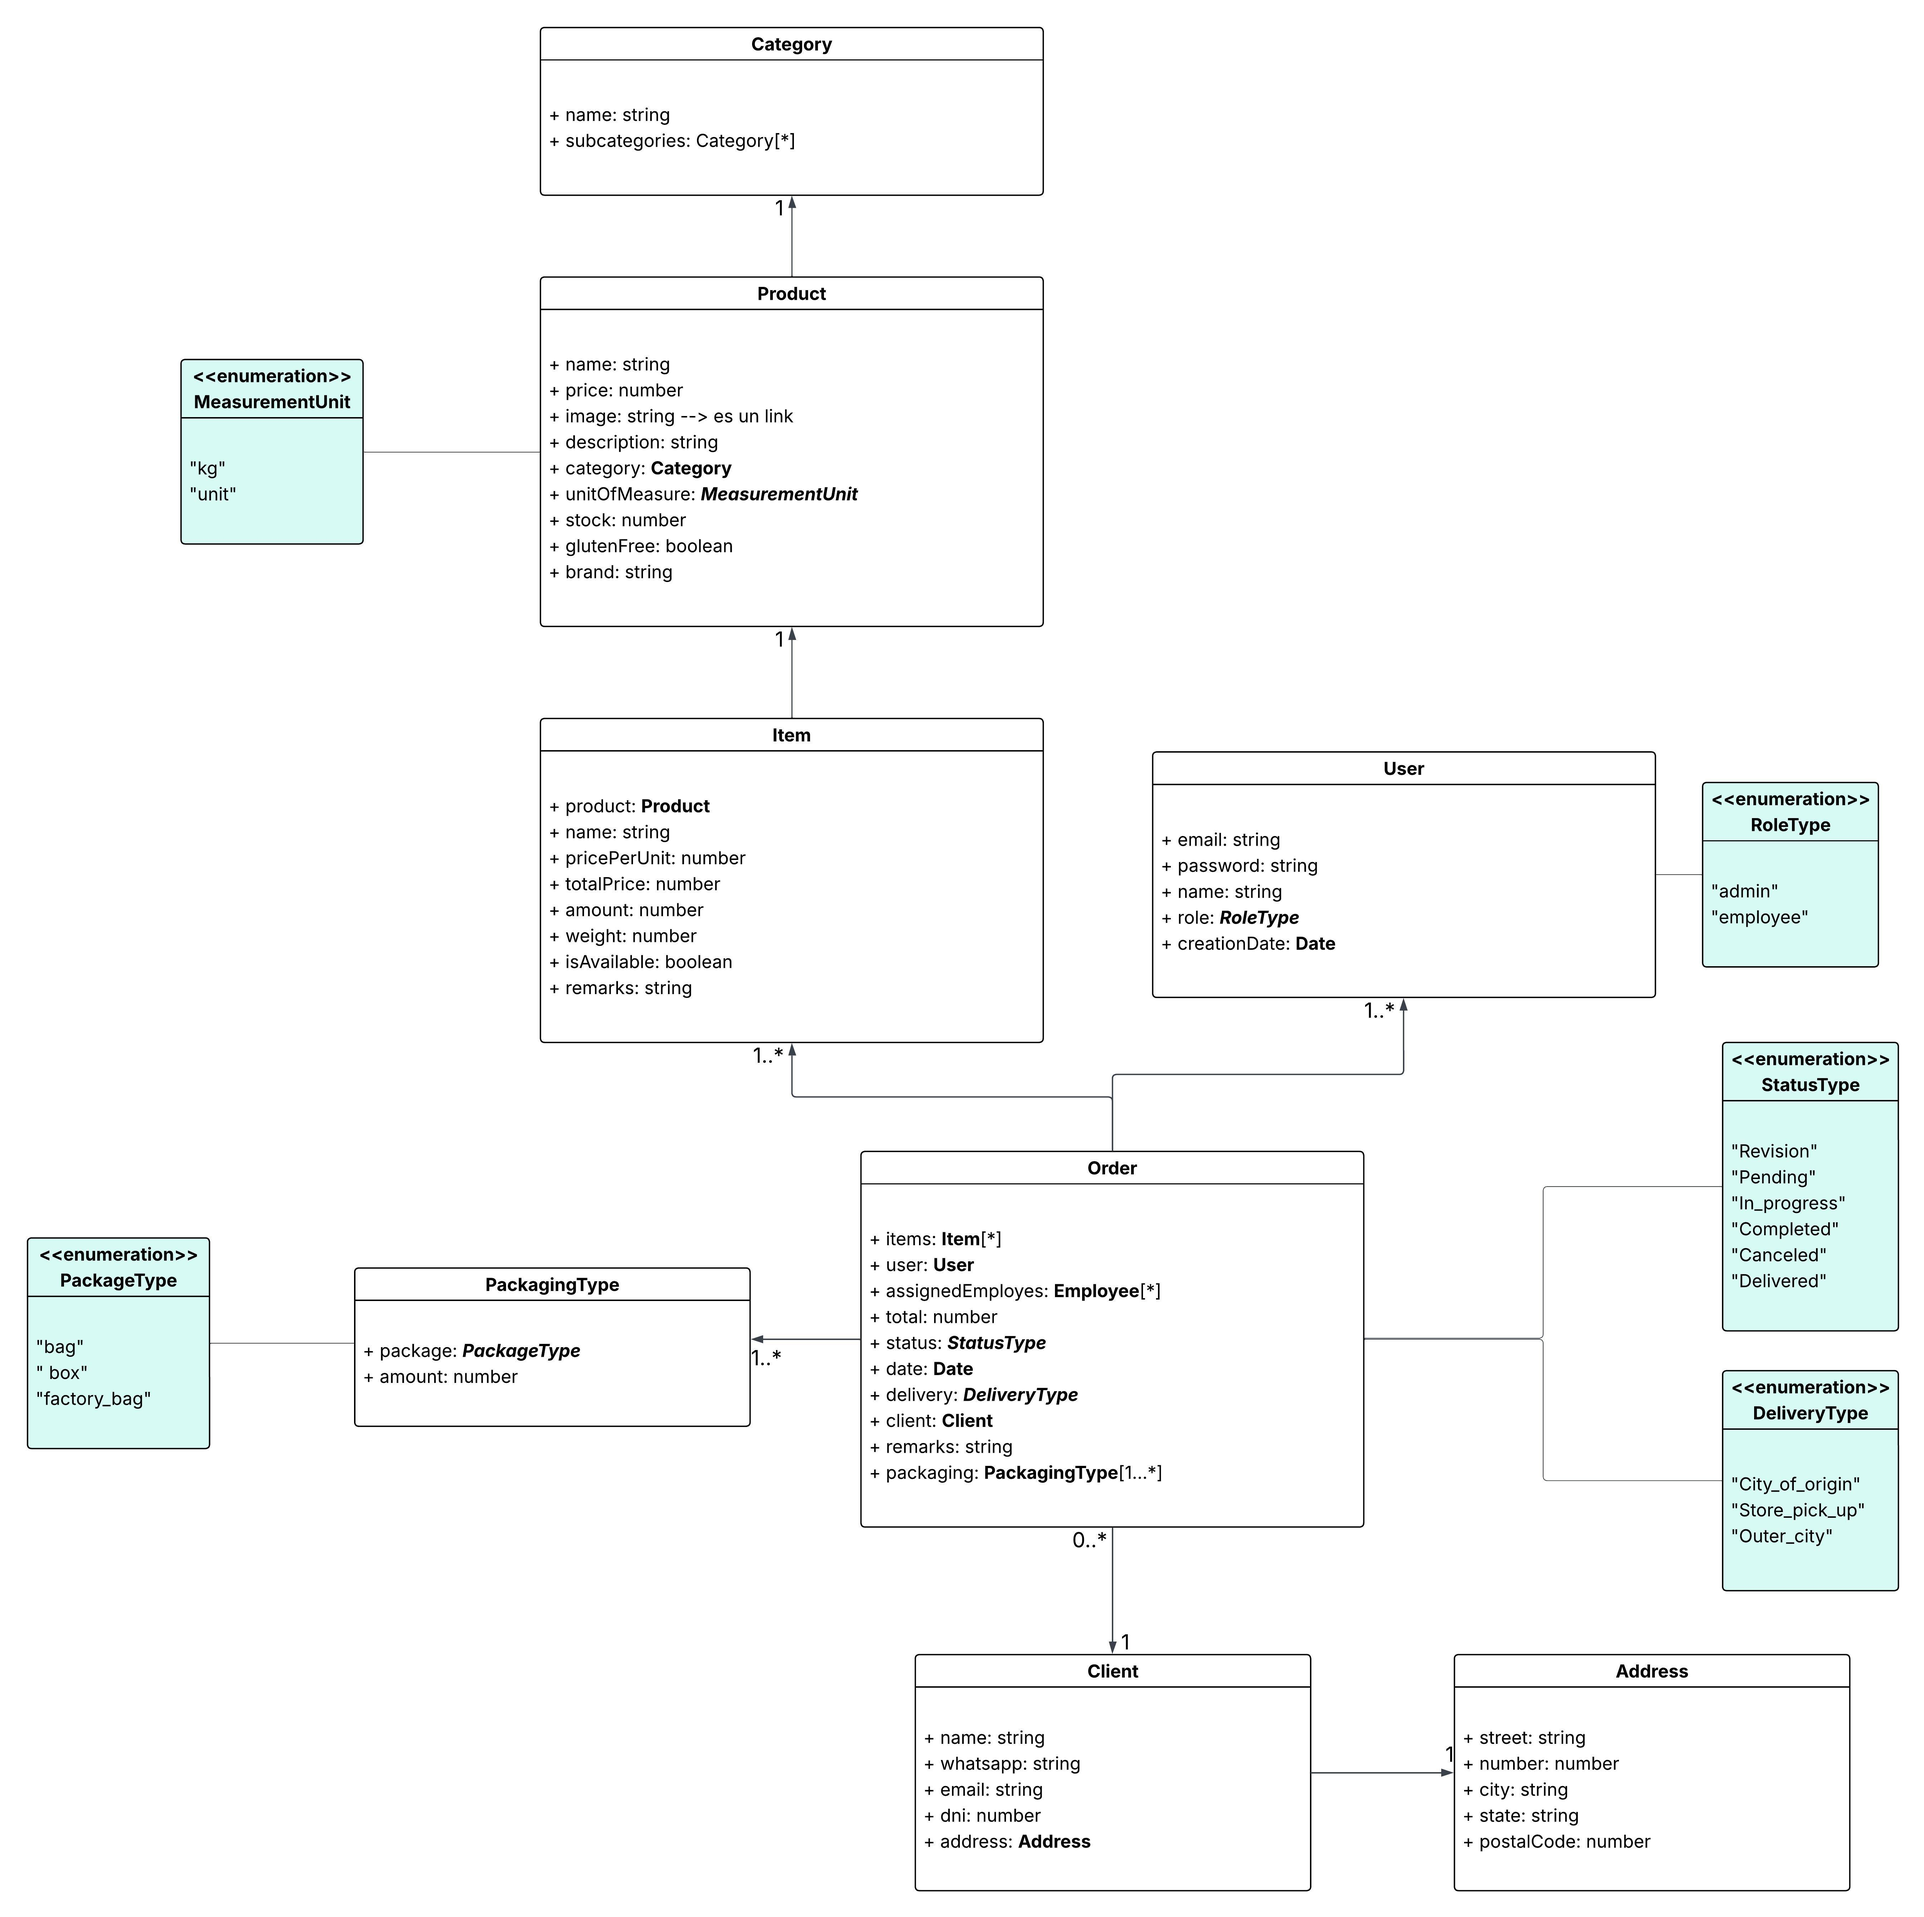
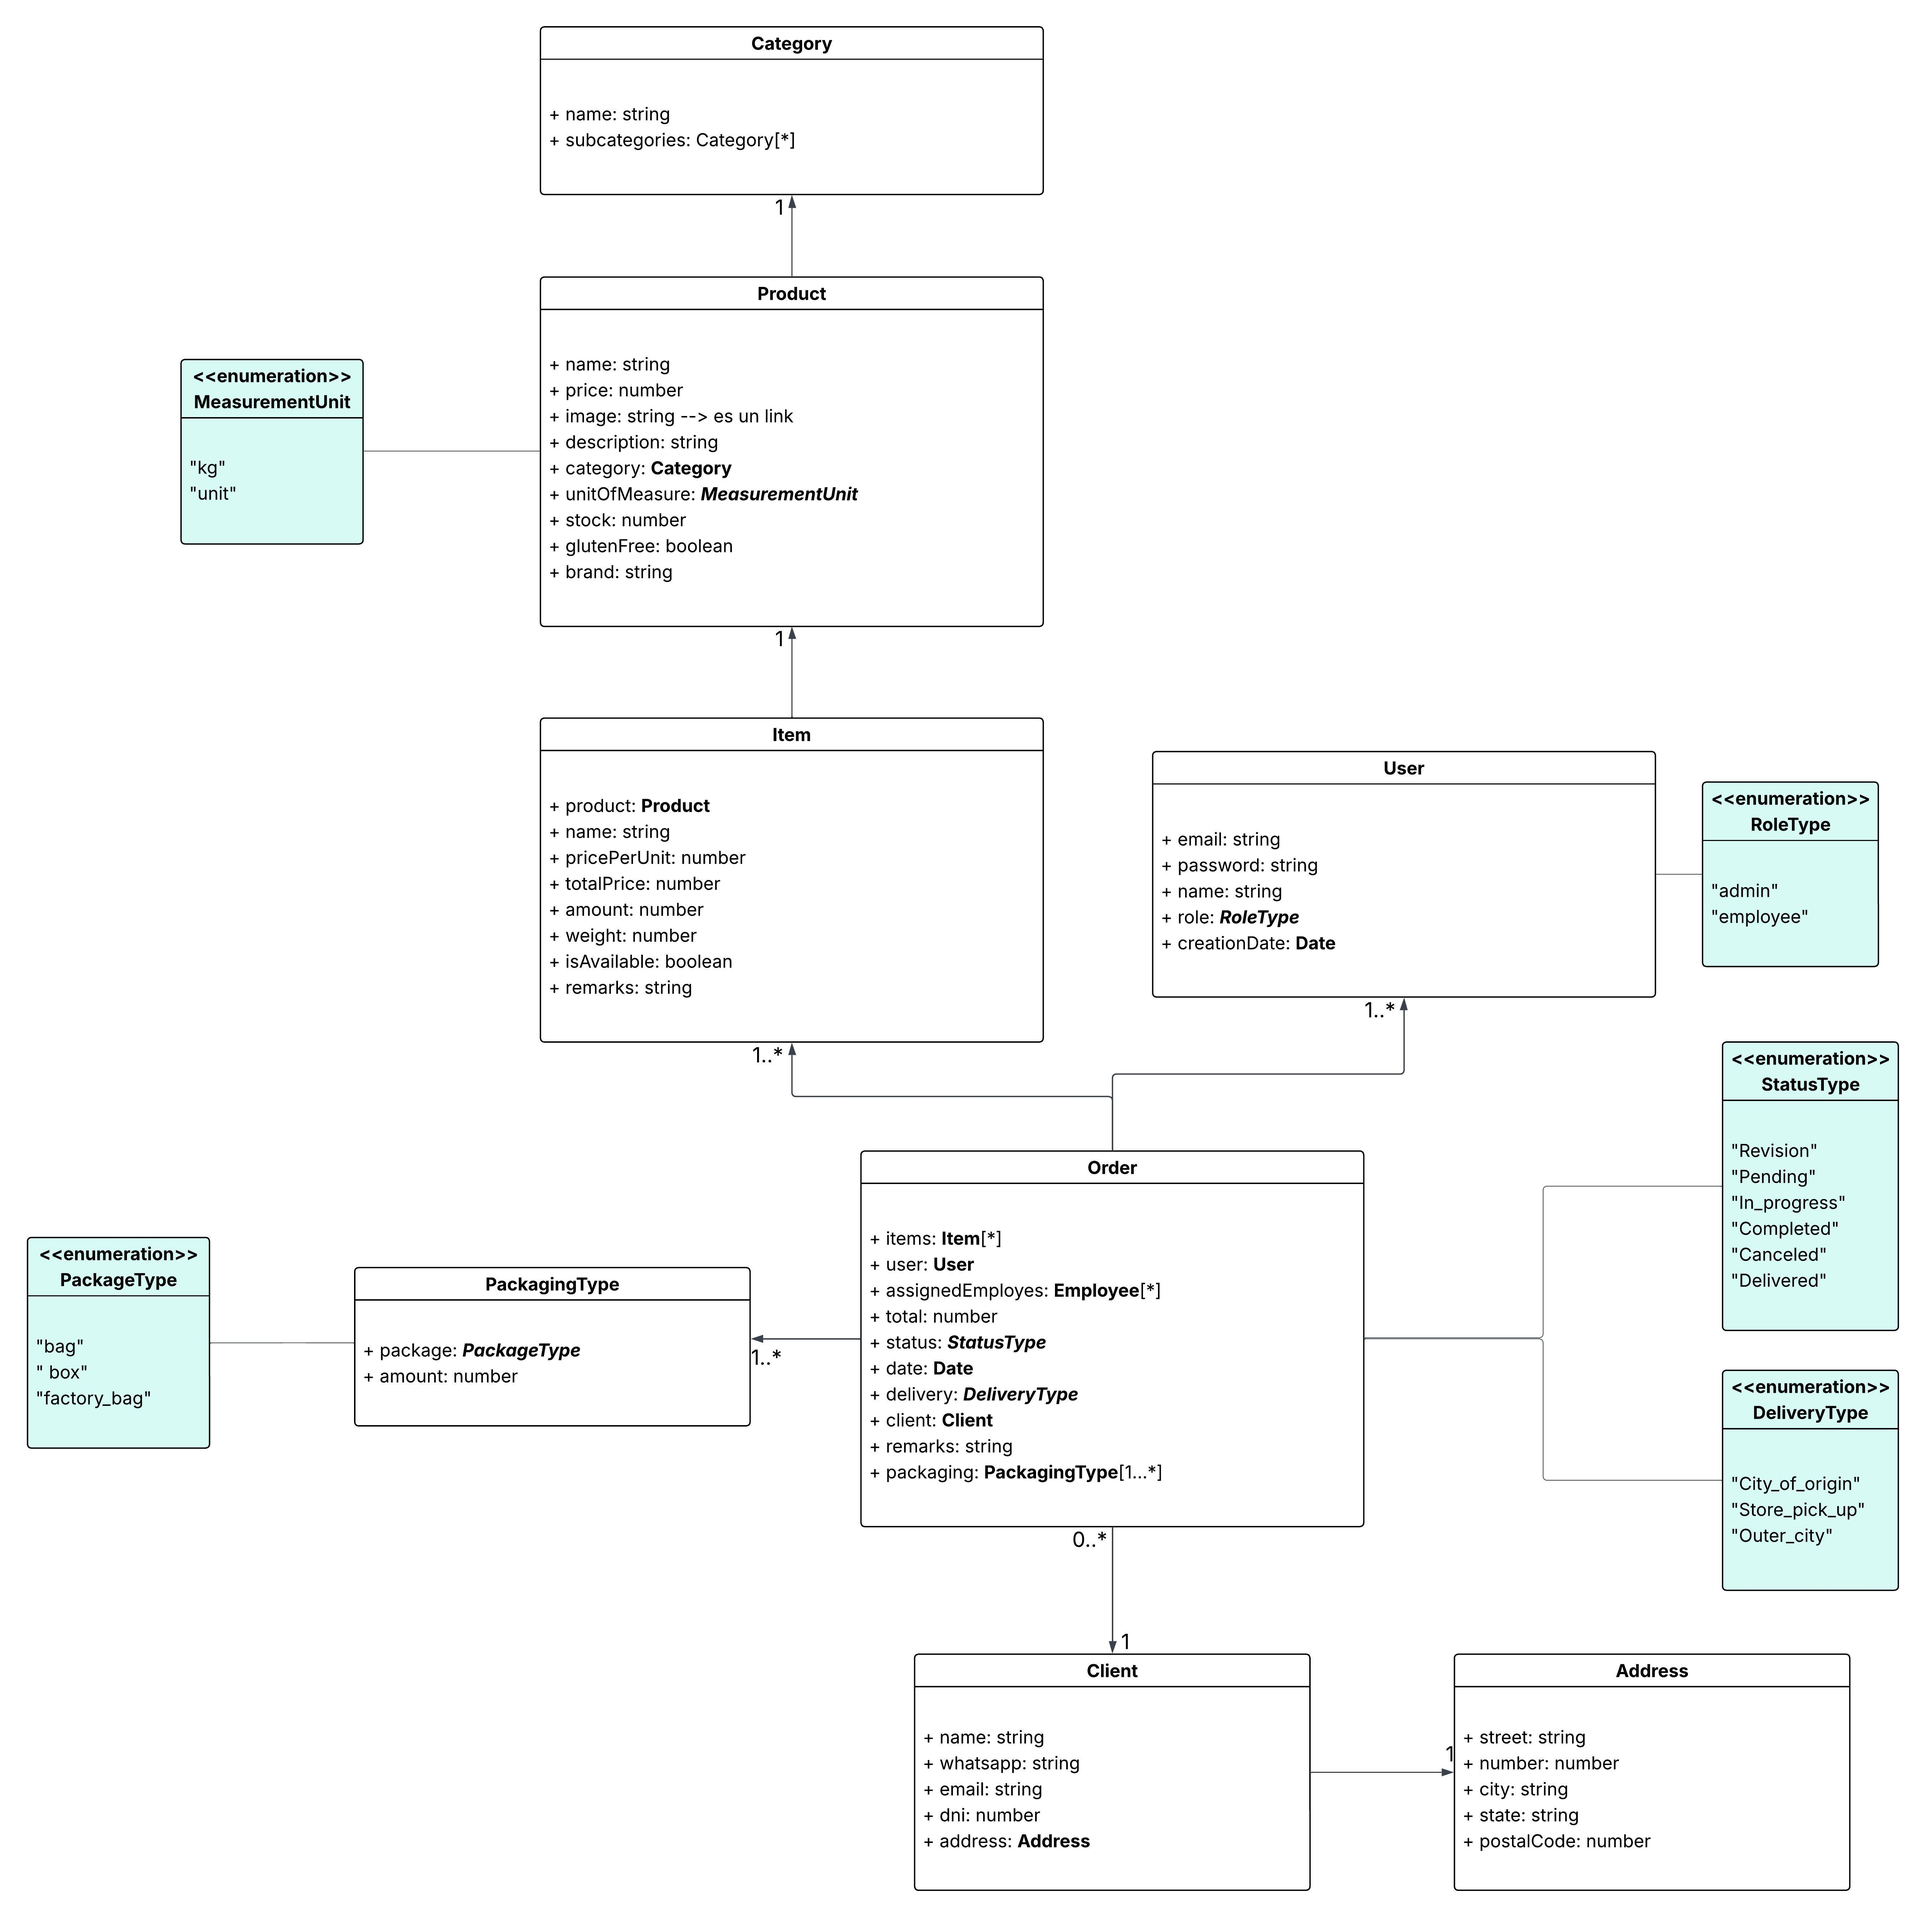
cambios al readme

Changed region(s): [[0.4684, 0.9037, 0.5621, 0.966], [0.9056, 0.6233, 0.9368, 0.6544], [0.9056, 0.4051, 0.9368, 0.4363]]

diff --git a/README.md b/README.md
@@ -68,5 +68,8 @@ Cada packaging incluye el tipo y la cantidad utilizada en una orden
 
 
 ##### DIAGRAMA DE LA BASE DE DATOS
-!["Diagrama BDD"](./assets/3B%20Database%20.jpeg)
+!["Diagrama BDD"](./assets/3B%20Database.jpeg)
+
+##### DIAGRAMA CON METODOS
+!["Diagrama BDD"](./assets/3B%20Database%20Metodos.jpeg)
 
